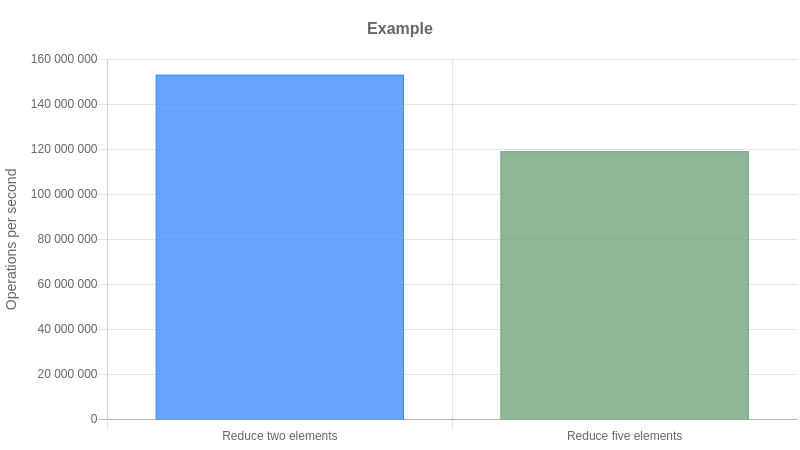
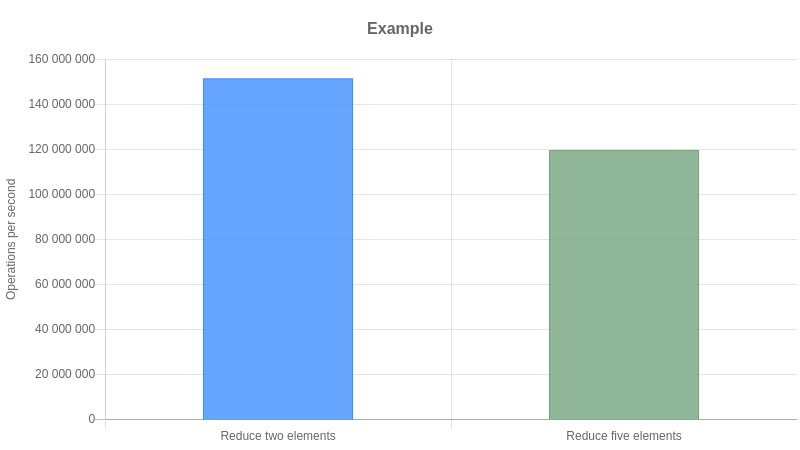
Improved generating colors for HTML chart

diff --git a/src/internal/prepareFileContent.ts b/src/internal/prepareFileContent.ts
@@ -98,6 +98,27 @@ const prepareHTMLTable = (summary, options) => {
   )
 }
 
+const colors = [
+  (opacity) => `rgba(63, 142, 252, ${opacity})`,
+  (opacity) => `rgba(116, 165, 127, ${opacity})`,
+  (opacity) => `rgba(158, 206, 154, ${opacity})`,
+  (opacity) => `rgba(58, 175, 185, ${opacity})`,
+  (opacity) => `rgba(79, 124, 172, ${opacity})`,
+  (opacity) => `rgba(113, 128, 172, ${opacity})`,
+  (opacity) => `rgba(182, 140, 184, ${opacity})`,
+  (opacity) => `rgba(219, 108, 121, ${opacity})`,
+  (opacity) => `rgba(189, 79, 108, ${opacity})`,
+  (opacity) => `rgba(138, 79, 125, ${opacity})`,
+  (opacity) => `rgba(95, 75, 102, ${opacity})`,
+  (opacity) => `rgba(204, 139, 134, ${opacity})`,
+  (opacity) => `rgba(215, 129, 106, ${opacity})`,
+  (opacity) => `rgba(245, 143, 41, ${opacity})`,
+]
+
+const prepareColors = (length, opacity) => {
+  return Array.from({ length }, (_, i) => colors[i % colors.length](opacity))
+}
+
 const prepareHTMLChart = (summary) => {
   const labels = summary.results.map((result) => result.name)
   const values = summary.results.map((result) => result.ops)
@@ -148,38 +169,12 @@ const prepareHTMLChart = (summary) => {
                 datasets: [
                   {
                     data: ${JSON.stringify(values)},
-                    backgroundColor: [
-                      'rgba(63, 142, 252, 0.8)',
-                      'rgba(116, 165, 127, 0.8)',
-                      'rgba(158, 206, 154, 0.8)',
-                      'rgba(58, 175, 185, 0.8)',
-                      'rgba(79, 124, 172, 0.8)',
-                      'rgba(113, 128, 172, 0.8)',
-                      'rgba(182, 140, 184, 0.8)',
-                      'rgba(219, 108, 121, 0.8)',
-                      'rgba(189, 79, 108, 0.8)',
-                      'rgba(138, 79, 125, 0.8)',
-                      'rgba(95, 75, 102, 0.8)',
-                      'rgba(204, 139, 134, 0.8)',
-                      'rgba(215, 129, 106, 0.8)',
-                      'rgba(245, 143, 41, 0.8)',
-                    ],
-                    borderColor: [
-                      'rgba(63, 142, 252, 1)',
-                      'rgba(116, 165, 127, 1)',
-                      'rgba(158, 206, 154, 1)',
-                      'rgba(58, 175, 185, 1)',
-                      'rgba(79, 124, 172, 1)',
-                      'rgba(113, 128, 172, 1)',
-                      'rgba(182, 140, 184, 1)',
-                      'rgba(219, 108, 121, 1)',
-                      'rgba(189, 79, 108, 1)',
-                      'rgba(138, 79, 125, 1)',
-                      'rgba(95, 75, 102, 1)',
-                      'rgba(204, 139, 134, 1)',
-                      'rgba(215, 129, 106, 1)',
-                      'rgba(245, 143, 41, 1)',
-                    ],
+                    backgroundColor: ${JSON.stringify(
+                      prepareColors(values.length, 0.8),
+                    )},
+                    borderColor: ${JSON.stringify(
+                      prepareColors(values.length, 1),
+                    )},
                     borderWidth: 1,
                   },
                 ],
@@ -210,7 +205,6 @@ const prepareHTMLChart = (summary) => {
                       scaleLabel: {
                         display: true,
                         labelString: 'Operations per second',
-                        fontSize: 14,
                       },
                       ticks: {
                         beginAtZero: true,
@@ -223,6 +217,7 @@ const prepareHTMLChart = (summary) => {
                       gridLines: {
                         color: 'rgba(127, 127, 127, 0.2)',
                       },
+                      maxBarThickness: 150,
                     },
                   ],
                 },

diff --git a/README.md b/README.md
@@ -81,12 +81,14 @@ b.suite(
   b.save({ file: 'reduce', format: 'chart.html' }),
 )
 ```
+---
 
 Execute:
 
 ```sh
 node benchmark.js
 ```
+---
 
 Output:
 
@@ -107,6 +109,7 @@ Finished 2 cases!
 Saved to: benchmark/results/reduce.json
 Saved to: benchmark/results/reduce.chart.html
 ```
+---
 
 JSON file content:
 
@@ -140,12 +143,7 @@ JSON file content:
 }
 ```
 
-HTML chart (it uses Chart.js on canvas, so you can save it as PNG by right-clicking on it):
-
-![chart](chart.png)
-
-
-If you use the `{ details: true }` option in your save function, you will get the result similar to this one:
+Note: If you use the `{ details: true }` option in your save function, you will get the result similar to this one:
 
 <details>
 <summary>click to expand</summary>
@@ -229,6 +227,12 @@ If you use the `{ details: true }` option in your save function, you will get th
 }
 </pre>
 </details>
+
+---
+
+HTML chart (it uses Chart.js on canvas, so you can save it as PNG by right-clicking on it):
+
+![chart](chart.png)
 
 <a id='api'></a>
 

diff --git a/CHANGELOG.md b/CHANGELOG.md
@@ -100,3 +100,7 @@ Initial release.
 ## 3.6.1
 
 - Rebuilt the library.
+
+## 3.6.2
+
+- Improved charts generation (renders only colors you need, in a cyclical manner).
